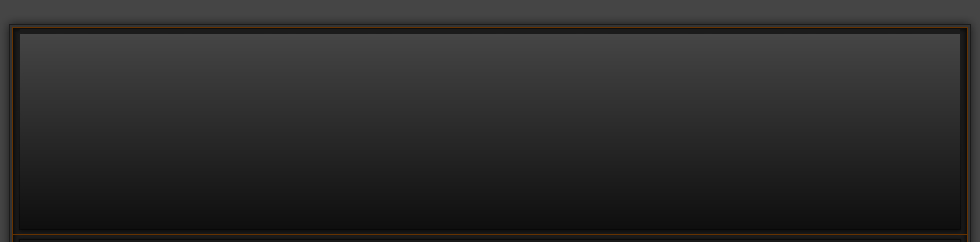
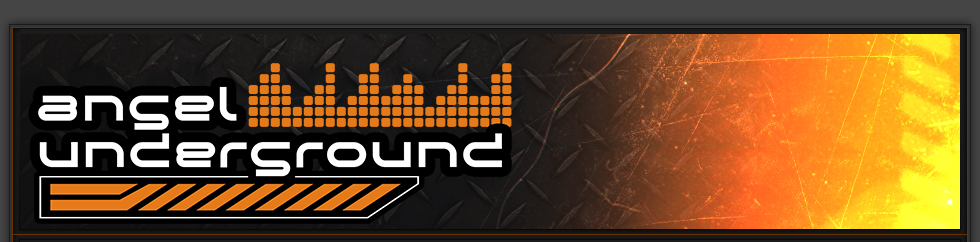
Touch-ups
Added new banner, and tweaked some content text

diff --git a/index.html b/index.html
@@ -75,7 +75,7 @@
 				<div class="CntFiller">				
 					<div class="CntInfo">
 						
-						<p>Welcome to the beta test for the Angel Underground website. As of right now we only have the homepage (although visually incomplete), but we are working behind the scenes to build the rest of the sections. Expected release of artist directories should be approximately Spring 2026. Come back later for more updates.</p>
+						<p>Welcome to the beta test for the Angel Underground website. As of right now we only have the homepage (although visually incomplete), but we are working behind the scenes to build the rest of the website. Expected release of artist directories should be approximately Spring 2026. Come back later for more updates.</p>
 
 					</div>
 				</div>				
@@ -146,7 +146,10 @@
 						
 						<ul>
 						<li>December 9 2025</li>
-							<ul><li>Beta 1.0 Now online</li></ul>
+							<ul>
+								<li>Website Beta 1.0 now online</li>
+								<li>Welcome to Angel Underground.</li>
+							</ul>
 						</ul>
 						
 					</div>
@@ -165,7 +168,14 @@
 				<div class="NavFiller">				
 					<div class="NavInfo">
 					
-						<p>Fuck off we're not done yet</p>				
+					<ul>
+						<li>Contact Us</li>
+						<li>Artist Directories</li>
+						<li>Server List</li>
+						<li>Community Forum</li>
+						<li>Merchandise</li>
+						<li>... and more</li>
+					</ul>
 					
 					</div>
 				</div>				
@@ -195,8 +205,9 @@
 			</div>
 			
 			<div id="ft-Mid">				
-				<p class="ft-font-title">Angel Underground Media</p>
-				<p class="ft-font-p">Copyright 2021&nbsp; -&nbsp; All Rights Reserved</p>
+				<p class="ft-font-title">Angel Underground Studios</p>
+<p class="ft-font-title">&nbsp;</p>
+<p class="ft-font-p">Copyright 2021&nbsp; -&nbsp; All Rights Reserved</p>
 				<p class="ft-font-p">Contact email: <a class="LINKurl" href="mailto:sevenscars@angelunderground.net?subject=Compliments">Email Seven Yo</a></p>
 			</div>
 			

diff --git a/css/vision-v2.css b/css/vision-v2.css
@@ -35,7 +35,7 @@ body {
 	background-repeat: repeat-y;	
 }
 #header {
-	background-image: url('../theme/bannerlogo2.jpg');
+	background-image: url('../theme/banner.jpg');
 	background-repeat: no-repeat;
 	padding: 0px;
 	margin: 0px;
